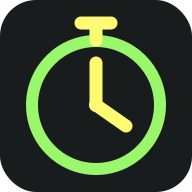
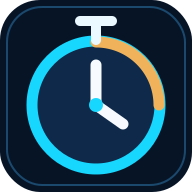
Add files via upload

diff --git a/css/style.css b/css/style.css
@@ -11,3 +11,188 @@
 @media(max-width:370px) { .settings-list .setting:last-child select { min-width: 130px; } }
 
 .settings-note a { color: var(--green); text-underline-offset: 2px; }
+
+
+/* ===========================================================================
+   PhysioTimer v0.3 — Physio family visual identity
+   Inspired by the navy/cyan visual language of PhysioTempo, PhysioReact
+   and PhysioStroop. One visible, accessible phase colour per activity.
+   Copyright (c) 2026 Sebrbo and contributors — PolyForm Noncommercial 1.0.0
+   =========================================================================== */
+:root {
+  color-scheme: dark;
+  --bg: #071426;
+  --surface: #0e233f;
+  --surface2: #102b4d;
+  --text: #f7faff;
+  --muted: #aabbd0;
+  --yellow: #f0b35c; /* prepare */
+  --green: #18d7ff;  /* exercise (old semantic variable retained for CSS compatibility) */
+  --red: #356fa7;    /* rest (old semantic variable retained for CSS compatibility) */
+  --blue: #18d7ff;   /* app highlight */
+  --border: rgba(142, 198, 238, .24);
+  --focus: #67e7ff;
+}
+html {background:#071426;}
+body {
+  background:
+    radial-gradient(65rem 25rem at 50% -8rem, rgba(24,215,255,.12), transparent 70%),
+    linear-gradient(145deg,#06111f,#071426 55%,#0b2441);
+}
+.app-shell {
+  background: #071426;
+  box-shadow: 0 20px 80px rgba(0,0,0,.25);
+}
+.app-header {
+  position:relative;
+  background:
+    radial-gradient(25rem 9rem at 52% -3rem,rgba(24,215,255,.13),transparent 90%),
+    linear-gradient(110deg,#06172d,#0b2a4b 54%,#06172d);
+  border-bottom:1px solid rgba(24,215,255,.28);
+}
+.app-header::after {
+  content:"";
+  position:absolute;
+  bottom:0;left:0;right:0;height:2px;
+  background:linear-gradient(90deg,transparent,rgba(24,215,255,.72),transparent);
+  pointer-events:none;
+}
+.brand { color:#fff; text-shadow:0 0 20px rgba(24,215,255,.12); }
+.brand span:last-child {color:#18d7ff;}
+.brand-mark {color:#18d7ff;filter:drop-shadow(0 0 7px rgba(24,215,255,.4));}
+.header-info {color:#b8efff;}
+.header-info strong {color:#fff;}
+.icon-button {color:#8feaff;border-color:rgba(24,215,255,.13);}
+.icon-button:hover {background:rgba(24,215,255,.13);}
+button:focus-visible,input:focus-visible,select:focus-visible {
+  outline:3px solid var(--focus);
+  outline-offset:3px;
+}
+/* Phase contrast: avoid relying on colour alone — text still states the phase. */
+.phase-panel {
+  --phase-ink:#09213b;
+  --phase-track:rgba(9,33,59,.18);
+  --phase-fill:#09213b;
+  color:var(--phase-ink);
+  background:#f0b35c;
+  transition:background-color .2s ease,color .2s ease;
+}
+.phase-panel[data-phase="prep"] {
+  --phase-ink:#09213b;
+  --phase-track:rgba(9,33,59,.18);
+  --phase-fill:#09213b;
+  background:
+    radial-gradient(42rem 25rem at 45% 0%,rgba(255,255,255,.20),transparent 72%),
+    linear-gradient(155deg,#f5c77e,#f0b35c 68%,#e2a552);
+}
+.phase-panel[data-phase="work"] {
+  --phase-ink:#061c35;
+  --phase-track:rgba(6,28,53,.18);
+  --phase-fill:#061c35;
+  background:
+    radial-gradient(42rem 25rem at 46% 0%,rgba(255,255,255,.3),transparent 71%),
+    linear-gradient(150deg,#83edff,#18d7ff 64%,#09b9e7);
+}
+.phase-panel[data-phase="rest"] {
+  --phase-ink:#fff;
+  --phase-track:rgba(255,255,255,.25);
+  --phase-fill:#fff;
+  background:
+    radial-gradient(39rem 27rem at 48% 0%,rgba(195,228,255,.14),transparent 70%),
+    linear-gradient(153deg,#427cb7,#356fa7 63%,#24598e);
+}
+.phase-panel[data-phase="cycleRest"] {
+  --phase-ink:#fff;
+  --phase-track:rgba(255,255,255,.25);
+  --phase-fill:#fff;
+  background:linear-gradient(145deg,#6b86c5,#4b62a8 76%,#3d528f);
+}
+.phase-panel[data-phase="cooldown"] {
+  --phase-ink:#09213b;
+  --phase-track:rgba(9,33,59,.16);
+  --phase-fill:#09213b;
+  background:linear-gradient(145deg,#d2eafa,#9ac8ee);
+}
+.phase-panel[data-phase="done"] {
+  --phase-ink:#072039;
+  --phase-track:rgba(7,32,57,.2);
+  --phase-fill:#072039;
+  background:linear-gradient(145deg,#90f0f7,#3fc9d9);
+}
+.phase-label {letter-spacing:.035em;}
+.phase-time {letter-spacing:-.035em; font-variant-numeric:tabular-nums;}
+.phase-bottom>span {color:var(--phase-ink);}
+.progress-track {background:var(--phase-track);height:8px;}
+.progress-track span {background:var(--phase-fill);}
+.next-panel {
+  background:linear-gradient(90deg,#0c2643,#113355,#0c2643);
+  border-top:1px solid rgba(255,255,255,.1);
+  border-bottom:1px solid rgba(24,215,255,.13);
+  color:#e9f6ff;
+}
+.next-panel strong {color:#fff;}
+.dashboard {
+  background:linear-gradient(180deg,#0b1e35,#081729);
+  border-bottom:1px solid rgba(24,215,255,.08);
+}
+.dashboard-count strong {color:#18d7ff;}
+.dashboard-count.right strong {color:#9ccfff;}
+.dashboard-count span {color:#d8e7f6;}
+.play-button {
+  color:#061b34;
+  background:linear-gradient(135deg,#68eaff,#10c5ea);
+  border:5px solid #18d7ff;
+  box-shadow:0 0 0 6px rgba(24,215,255,.1),inset 0 0 0 3px #07334d,0 12px 36px rgba(24,215,255,.12);
+}
+.play-button.is-running {
+  background:linear-gradient(135deg,#68eaff,#10c5ea);
+  border-color:#18d7ff;
+}
+.play-container>strong {color:#91eaff;}
+.text-action {color:#9eb6cc;}
+.program-actions {background:#081729;}
+.outline-button {
+  background:#103255;
+  color:#e9f7ff;
+  border-color:rgba(24,215,255,.3);
+  box-shadow:inset 0 1px 0 rgba(255,255,255,.04);
+}
+.outline-button:hover {background:#16436d;border-color:rgba(24,215,255,.5);}
+.bottom-nav {
+  background:linear-gradient(180deg,#0b1c32,#071426);
+  border-top:1px solid rgba(24,215,255,.2);
+}
+.nav-button {color:#b4c8dd;}
+.nav-button.is-selected {color:#9aeeff;background:#12385d;box-shadow:inset 0 0 0 1px rgba(24,215,255,.22);}
+.nav-button:hover {color:#fff;background:rgba(24,215,255,.09);}
+.stopwatch-face {
+  background:linear-gradient(150deg,#79e9fc,#18d7ff 65%,#0bb7df);
+  color:#072039;
+}
+.preset-card {background:linear-gradient(145deg,#0e2949,#0b2039);border-color:var(--border);}
+.preset-card-actions button {background:#1c476f;}
+.preset-card-actions button:first-child {background:#18d7ff;color:#061b34;}
+.sheet-dialog,.small-dialog {
+  background:#091b31;
+  border-color:rgba(24,215,255,.28);
+  box-shadow:0 24px 80px rgba(0,6,15,.75);
+}
+.sheet-heading {background:#0b203a;}
+.sheet-heading h2 {color:#eaf8ff;}
+.save-button {color:#4ee5ff;}
+.config-field input,.setting select,.save-name input {
+  background:#102f51;
+  border-color:rgba(142,198,238,.28);
+  color:#fff;
+}
+.setting input[type=checkbox],.setting input[type=range] {accent-color:#18d7ff;}
+.setting select {color:#91eaff;}
+.duration-preview strong {color:#8feaff;}
+.solid-button {background:#18d7ff;color:#061b34;}
+.settings-note a {color:#8feaff;}
+@media(min-width:700px) {
+  .app-shell {border-left:1px solid rgba(24,215,255,.19);border-right:1px solid rgba(24,215,255,.19);}
+}
+@media(prefers-reduced-motion:reduce) {
+  .phase-panel {transition:none;}
+}

diff --git a/index.html b/index.html
@@ -3,12 +3,12 @@
 <head>
   <meta charset="utf-8">
   <meta name="viewport" content="width=device-width,initial-scale=1,viewport-fit=cover">
-  <meta name="theme-color" content="#171a1b">
+  <meta name="theme-color" content="#071426">
   <meta name="description" content="PhysioTimer : minuteur Tabata, rounds et chronomètre gratuit pour l’entraînement et la rééducation, utilisable hors ligne.">
   <link rel="manifest" href="./manifest.webmanifest">
   <link rel="icon" type="image/svg+xml" href="./icons/icon.svg">
   <link rel="apple-touch-icon" href="./icons/icon-192.png">
-  <link rel="stylesheet" href="./css/style.css?v=2">
+  <link rel="stylesheet" href="./css/style.css?v=3">
   <title>PhysioTimer — Tabata & Rounds</title>
 </head>
 <body>
@@ -23,7 +23,7 @@
     </header>
 
     <main id="timerView" class="timer-view">
-      <section class="phase-panel" id="phasePanel" aria-label="Compte à rebours de la phase">
+      <section class="phase-panel" id="phasePanel" data-phase="prep" aria-label="Compte à rebours de la phase">
         <div class="phase-label" id="phaseLabel">PRÉPARATION</div>
         <div class="phase-time" id="phaseTime" role="timer" aria-label="Temps restant dans la phase">00:05</div>
         <div class="phase-bottom"><span id="phaseProgressLabel">Prêt à démarrer ?</span><div class="progress-track"><span id="phaseProgressBar"></span></div></div>
@@ -82,6 +82,6 @@
   <div id="liveAnnouncement" class="sr-only" aria-live="polite"></div>
   <script src="./js/i18n.js?v=2" defer></script>
   <script src="./js/core.js?v=2" defer></script>
-  <script src="./js/app.js?v=2" defer></script>
+  <script src="./js/app.js?v=3" defer></script>
 </body>
 </html>

diff --git a/js/app.js b/js/app.js
@@ -28,13 +28,13 @@
   let elapsedMs = 0, startedAt = 0, running = false, finished = false, lastSegmentIndex = -1, lastCountSound = '';
   let clockHandle = null, audioCtx = null, wakeLock = null;
   let stopwatchMs = 0, stopwatchStartedAt = 0, stopwatchRunning = false, lastLapMs = 0, laps = [];
-  const COLORS = { prep: '#fffa71', work: '#9af66a', rest: '#ff5a50', cycleRest: '#58c0ed', cooldown: '#58c0ed', done: '#9af66a' };
+  const COLORS = { prep: '#f0b35c', work: '#18d7ff', rest: '#356fa7', cycleRest: '#5b75b6', cooldown: '#9ac8ee', done: '#3fc9d9' };
   const labels = () => ({ prep: t('phasePrepare'), work: t('phaseWork'), rest: t('phaseRest'), cycleRest: t('phaseCycleRest'), cooldown: t('phaseCooldown'), done: t('phaseDone') });
   const audioConstructor = globalThis.AudioContext || globalThis.webkitAudioContext;
   const clock = () => performance.now();
   function timelineElapsed() { return running ? Math.min(plan.totalMs, elapsedMs + clock() - startedAt) : elapsedMs; }
   function stopwatchElapsed() { return stopwatchRunning ? stopwatchMs + clock() - stopwatchStartedAt : stopwatchMs; }
-  function setTheme(kind) { $('phasePanel').style.backgroundColor = COLORS[kind]; }
+  function setTheme(kind) { $('phasePanel').dataset.phase = kind; }
   function announcement(msg) { $('liveAnnouncement').textContent = msg; }
   function renderTimer(triggerEvents = false) {
     const state = Core.locate(plan, timelineElapsed());

diff --git a/service-worker.js b/service-worker.js
@@ -1,9 +1,9 @@
 /* PhysioTimer offline support. Increment CACHE_NAME when changing app assets. */
 'use strict';
-const CACHE_NAME = 'physiotimer-v2';
+const CACHE_NAME = 'physiotimer-v3';
 const APP_SHELL = [
-  './', './index.html', './css/style.css?v=2', './js/i18n.js?v=2',
-  './js/core.js?v=2', './js/app.js?v=2', './manifest.webmanifest',
+  './', './index.html', './css/style.css?v=3', './js/i18n.js?v=2',
+  './js/core.js?v=2', './js/app.js?v=3', './manifest.webmanifest',
   './icons/icon.svg', './icons/icon-192.png', './icons/icon-512.png'
 ];
 self.addEventListener('install', event => {

diff --git a/README.md b/README.md
@@ -7,12 +7,16 @@ PhysioTimer is a free, installable and offline-capable workout interval timer,
 for physiotherapy exercises, rehabilitation and sport. This is not a medical device
 and does not provide diagnosis or treatment recommendations.
 
+## Version v0.3.0 — Charte graphique Physio
+
+Palette partagée avec les applications PhysioTempo, PhysioReact et PhysioStroop : bleu nuit `#071426`, cyan `#18D7FF`, blanc `#F7FAFF`. La signification des phases est conservée par les libellés et des couleurs à fort contraste : ambre `#F0B35C` pour préparation, cyan pour exercice, bleu `#356FA7` pour repos et bleu-violet pour repos entre cycles.
+
 ## Fonctions (FR)
 
 - **Tabata** : préparation, exercice, repos, rounds, cycles et repos entre cycles.
 - **Rounds** : préparation, exercice, repos et nombre de rounds.
 - **Chronomètre** : départ, pause, remise à zéro et tours.
-- Affichage géant et couleurs : jaune (préparation), vert (effort), rouge (repos).
+- Affichage géant et couleurs : ambre (préparation), cyan dynamique (effort), bleu apaisant (repos).
 - Durée totale restante, phase suivante, rounds et cycles restants.
 - Démarrage, pause/reprise, réinitialisation, bip, compte à rebours sonore,
   guidage vocal facultatif, vibrations quand disponibles.
@@ -56,7 +60,7 @@ node --test tests/test-core.cjs
 ```
 
 Quand un script ou une feuille de style change, incrémenter le numéro de version
-`?v=2` dans `index.html`, le `CACHE_NAME` et les chemins de `APP_SHELL`
+`?v=3` dans `index.html`, le `CACHE_NAME` et les chemins de `APP_SHELL`
 dans `service-worker.js` afin de diffuser la nouvelle version aux PWA installées.
 
 ## Limitations navigateur
